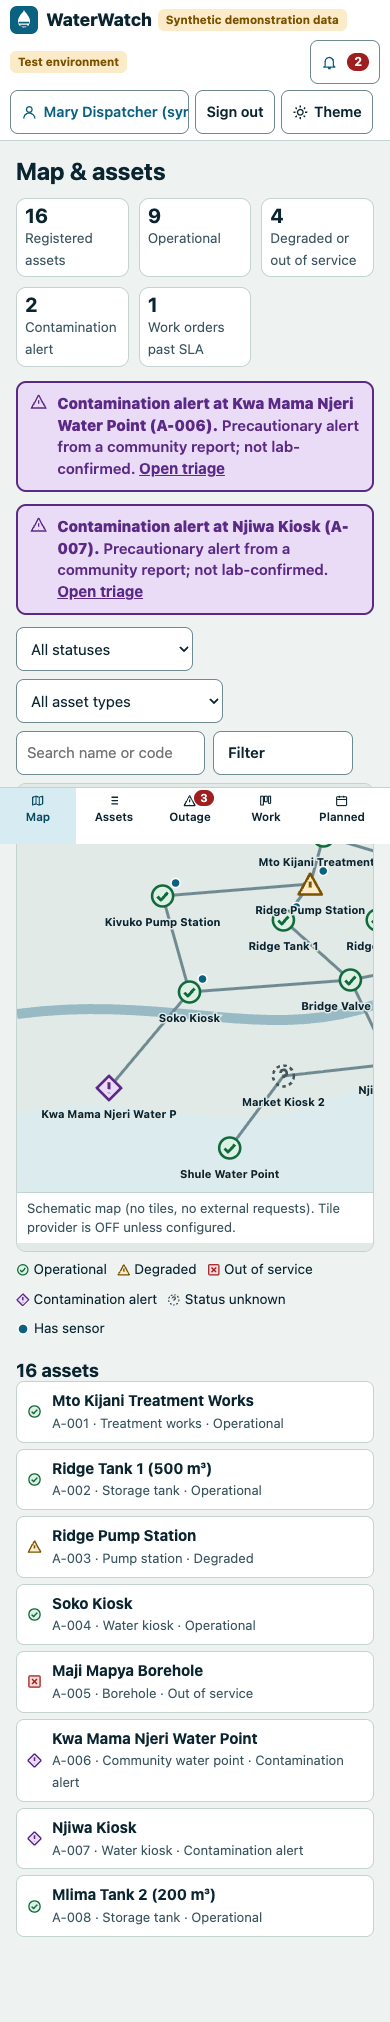
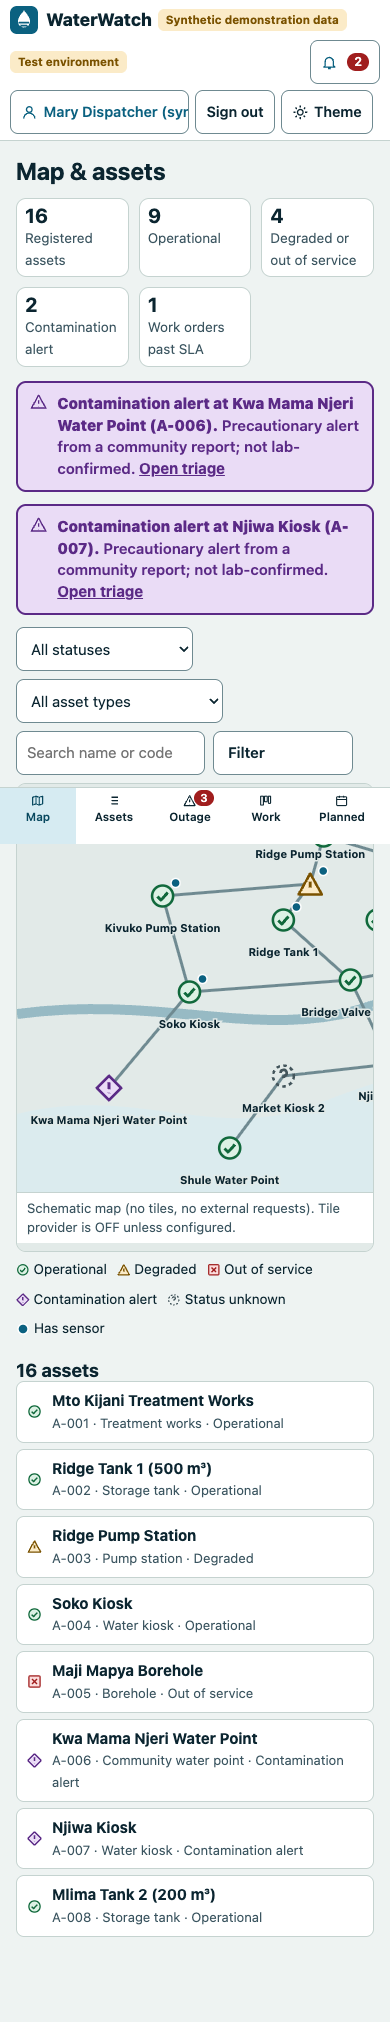
Round 2 UX review notes and screenshots

diff --git a/docs/UX-REVIEW.md b/docs/UX-REVIEW.md
@@ -33,3 +33,28 @@ Map and triage, asset list and detail, outage reports, work-order board and deta
 
 ## Screenshots
 `docs/screenshots/ux-review/` has before and after pairs (map and work orders on phone, sensor health and map on desktop, technician job on phone).
+
+## Round 2
+
+### Done
+| Item | Result | Evidence |
+|---|---|---|
+| Automated accessibility (axe-core 4.x, dev dependency, `tests/e2e/a11y.spec.ts`) | 120 screen renders (7 roles, 375 and 1280 px, light and dark, wcag2a/aa, 2.1, 2.2 AA and best-practice rules). Serious/critical before: 24 renders affected, 116 nodes (map marker label vs visible name, unfocusable scroll regions, `role=img` list on analytics). After: 0. | test output |
+| Keyboard-only walkthroughs (`tests/e2e/keyboard.spec.ts`) | Skip link first and working, focus visible on every stop, no trap, header then nav then content order, modal traps focus and Escape closes it, map markers work with Enter, report form reaches Send by Tab. Fix: dialogs now return focus to the opener. | 4 tests |
+| Print styles | Print stylesheet hides the shell, flattens the board and tables, avoids breaking cards. Checked with print emulation on orders, analytics, audit and assets (no overflow, chrome hidden). | 4 tests |
+| Contrast | Token pairs re-measured (62 pairs, light and dark): 0 failures. Rendered text: axe color-contrast rule is part of the sweep in both themes: 0 failures. | tools/contrast.mjs tokens, axe |
+| Map label collisions | Labels now use collision-aware placement (below, above, right, left, farther), keep inside the frame and show full names. Checked visually on the seeded map. | `ux-review/r2-map-labels-desktop.png` |
+| Alerts per device | Open alerts are grouped per device with a count and worst severity; single alerts stay as before; actions unchanged. Presentation only. | `ux-review/r2-sensors-grouped-mobile.png` |
+| Completed column | Shows 5, then a "Show N more completed" disclosure; the count in the header is the true total. | e2e |
+| Leaflet tile map | Reviewed with a local dummy tile URL: no horizontal overflow at 375 px, tile-error note appears. Markers were all the same blue; now coloured by status with a name and status tooltip. Markers are still not keyboard reachable; the asset list below is the keyboard alternative. | manual |
+| Platform admin | `/platform` reviewed in the sweep (axe clean, both themes, both widths). Table is now a labelled, focusable scroll region. | axe |
+| Performance (emulated, no throttling) | Map, sensors, orders at 375 px: 6 requests, 50 to 57 KB transferred, CLS 0.000. No changes needed. | `print-perf.spec.ts` |
+| Kiswahili | 31 keys in en and sw, none missing or extra. No overflow at 320 px. Still a DRAFT. | unit-style check, e2e |
+| Prototype | `design/prototype/` gets the bounded completed column and a labelled sensor table region. Still labelled simulated, no network. | |
+
+### Still open
+- Native Kiswahili review and public-health review of the safety wording are still required. Not verified by a native speaker.
+- Real screen reader testing (VoiceOver, NVDA), real device, glare and real-network throttling were not done and cannot be done here.
+- Leaflet markers are not individually keyboard focusable (list alternative provided).
+- Prototype does not model per-device alert grouping (it has no alert list).
+- axe only finds a subset of issues; moderate/minor axe findings were not triaged.
